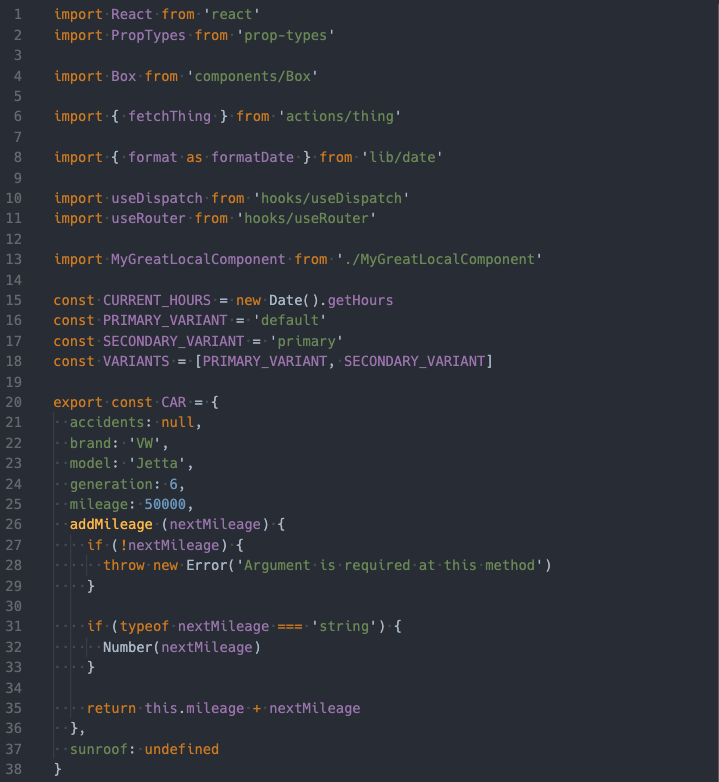
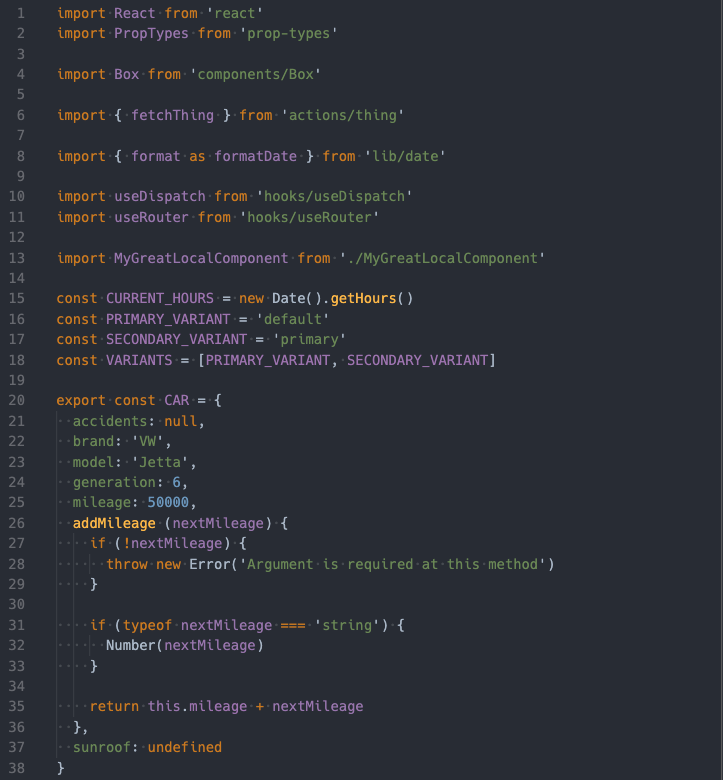
typos

diff --git a/codeSample.js b/codeSample.js
@@ -12,7 +12,7 @@ import useRouter from 'hooks/useRouter'
 
 import MyGreatLocalComponent from './MyGreatLocalComponent'
 
-const CURRENT_HOURS = new Date().getHours
+const CURRENT_HOURS = new Date().getHours()
 const PRIMARY_VARIANT = 'default'
 const SECONDARY_VARIANT = 'primary'
 const VARIANTS = [PRIMARY_VARIANT, SECONDARY_VARIANT]
@@ -120,7 +120,7 @@ function FunctionalComponent (props) {
 
       {renderNiceLayout(showNiceLayout)}
 
-      {CURRENT_HOURS < 7
+      {CURRENT_HOURS < 18
         ? formatDate(CURRENT_HOURS)
         : 'You should go home'}
     </>

diff --git a/README.md b/README.md
@@ -1,6 +1,6 @@
 ## Darcula color theme.
 ### The proper colored color theme for js/react syntax.
-Here is some demo screenshots:
+Here are some demo screenshots:
 
 ![](./images/screenshot-1.png)
 ![](./images/screenshot-2.png)
